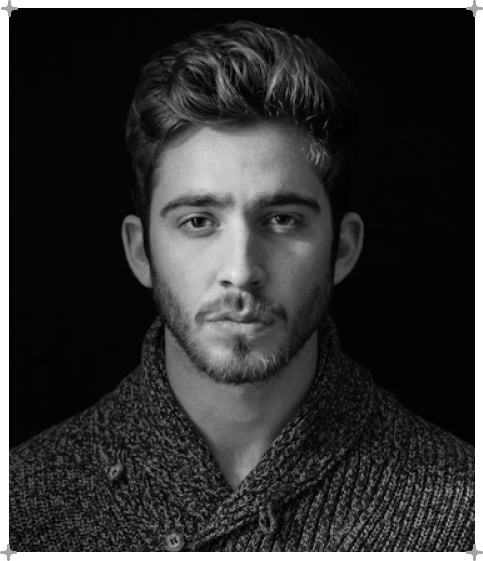
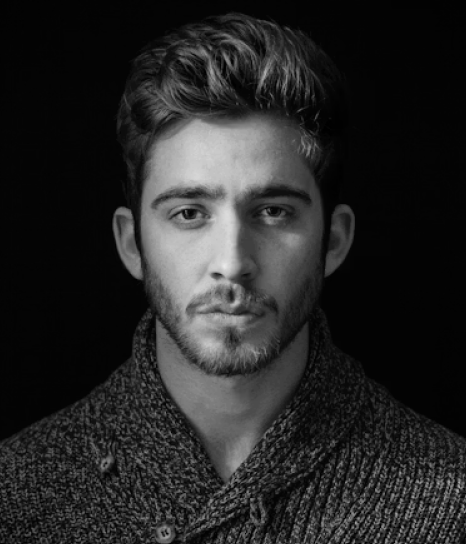
fix the testimonials section's frames proportions

diff --git a/app/landing-testimonials.tsx b/app/landing-testimonials.tsx
@@ -7,53 +7,50 @@ const testimonialQuote =
 
 export function LandingTestimonials() {
   return (
-    <FrameShell
-      id="company"
-      className="w-full px-6 py-8 sm:px-8 lg:px-10 lg:py-10"
-    >
-      <section className="space-y-8 lg:space-y-7">
-        <div className="grid gap-6 lg:grid-cols-[0.92fr_1.08fr] lg:gap-6">
-          <TestimonialPortraitImage
-            alt="Portrait of testimonial customer 1"
-            src="/imagery/testimonial-person-1.png"
-          />
-          <TestimonialCard />
-        </div>
+    <section id="company" className="w-full space-y-[var(--cell)]">
+      <div className="grid gap-[var(--cell)] lg:grid-cols-[5fr_9fr]">
+        <TestimonialPortraitImage
+          alt="Portrait of testimonial customer 1"
+          src="/imagery/testimonial-person-1.png"
+        />
+        <TestimonialCard />
+      </div>
 
-        <div className="grid gap-6 lg:grid-cols-[1.08fr_0.92fr] lg:gap-6">
-          <TestimonialCard />
-          <TestimonialPortraitImage
-            alt="Portrait of testimonial customer 2"
-            src="/imagery/testimonial-person-2.png"
-          />
-        </div>
-      </section>
-    </FrameShell>
+      <div className="grid gap-[var(--cell)] lg:grid-cols-[9fr_5fr]">
+        <TestimonialCard />
+        <TestimonialPortraitImage
+          alt="Portrait of testimonial customer 2"
+          src="/imagery/testimonial-person-2.png"
+        />
+      </div>
+    </section>
   );
 }
 
 function TestimonialPortraitImage({ src, alt }: { src: string; alt: string }) {
   return (
-    <img
-      alt={alt}
-      className="h-[360px] w-full object-cover sm:h-[400px] lg:h-[356px]"
-      src={src}
-    />
+    <FrameShell className="flex h-[360px] w-full border-none p-0 shadow-none sm:h-[400px] lg:h-[calc(6*var(--cell))]">
+      <img
+        alt={alt}
+        className="h-full w-full object-cover object-[center_20%]"
+        src={src}
+      />
+    </FrameShell>
   );
 }
 
 function TestimonialCard() {
   return (
-    <article className="flex h-[360px] flex-col justify-between border border-black/8 bg-[rgba(255,255,255,0.92)] px-5 py-5 sm:h-[400px] sm:px-6 sm:py-6 lg:h-[356px] lg:px-5 lg:py-5">
+    <FrameShell className="flex h-[360px] flex-col justify-between p-6 sm:h-[400px] sm:p-8 lg:h-[calc(6*var(--cell))] lg:p-10">
       <p className="max-w-[520px] font-mono text-[clamp(0.98rem,1.1vw,1rem)] leading-[1.32] tracking-[-0.05em] text-[var(--muted)]">
         {testimonialQuote}
       </p>
 
-      <div className="grid gap-5 pt-5 sm:grid-cols-2 sm:gap-6 lg:pt-5 lg:gap-6">
+      <div className="grid gap-5 pt-5 sm:grid-cols-2 sm:gap-6 lg:gap-6 lg:pt-5">
         <MetaBlock icon={BriefcaseBusiness} label="Head of Machine Learning" />
         <MetaBlock icon={Building2} label="Enterprise SaaS Company" />
       </div>
-    </article>
+    </FrameShell>
   );
 }
 
